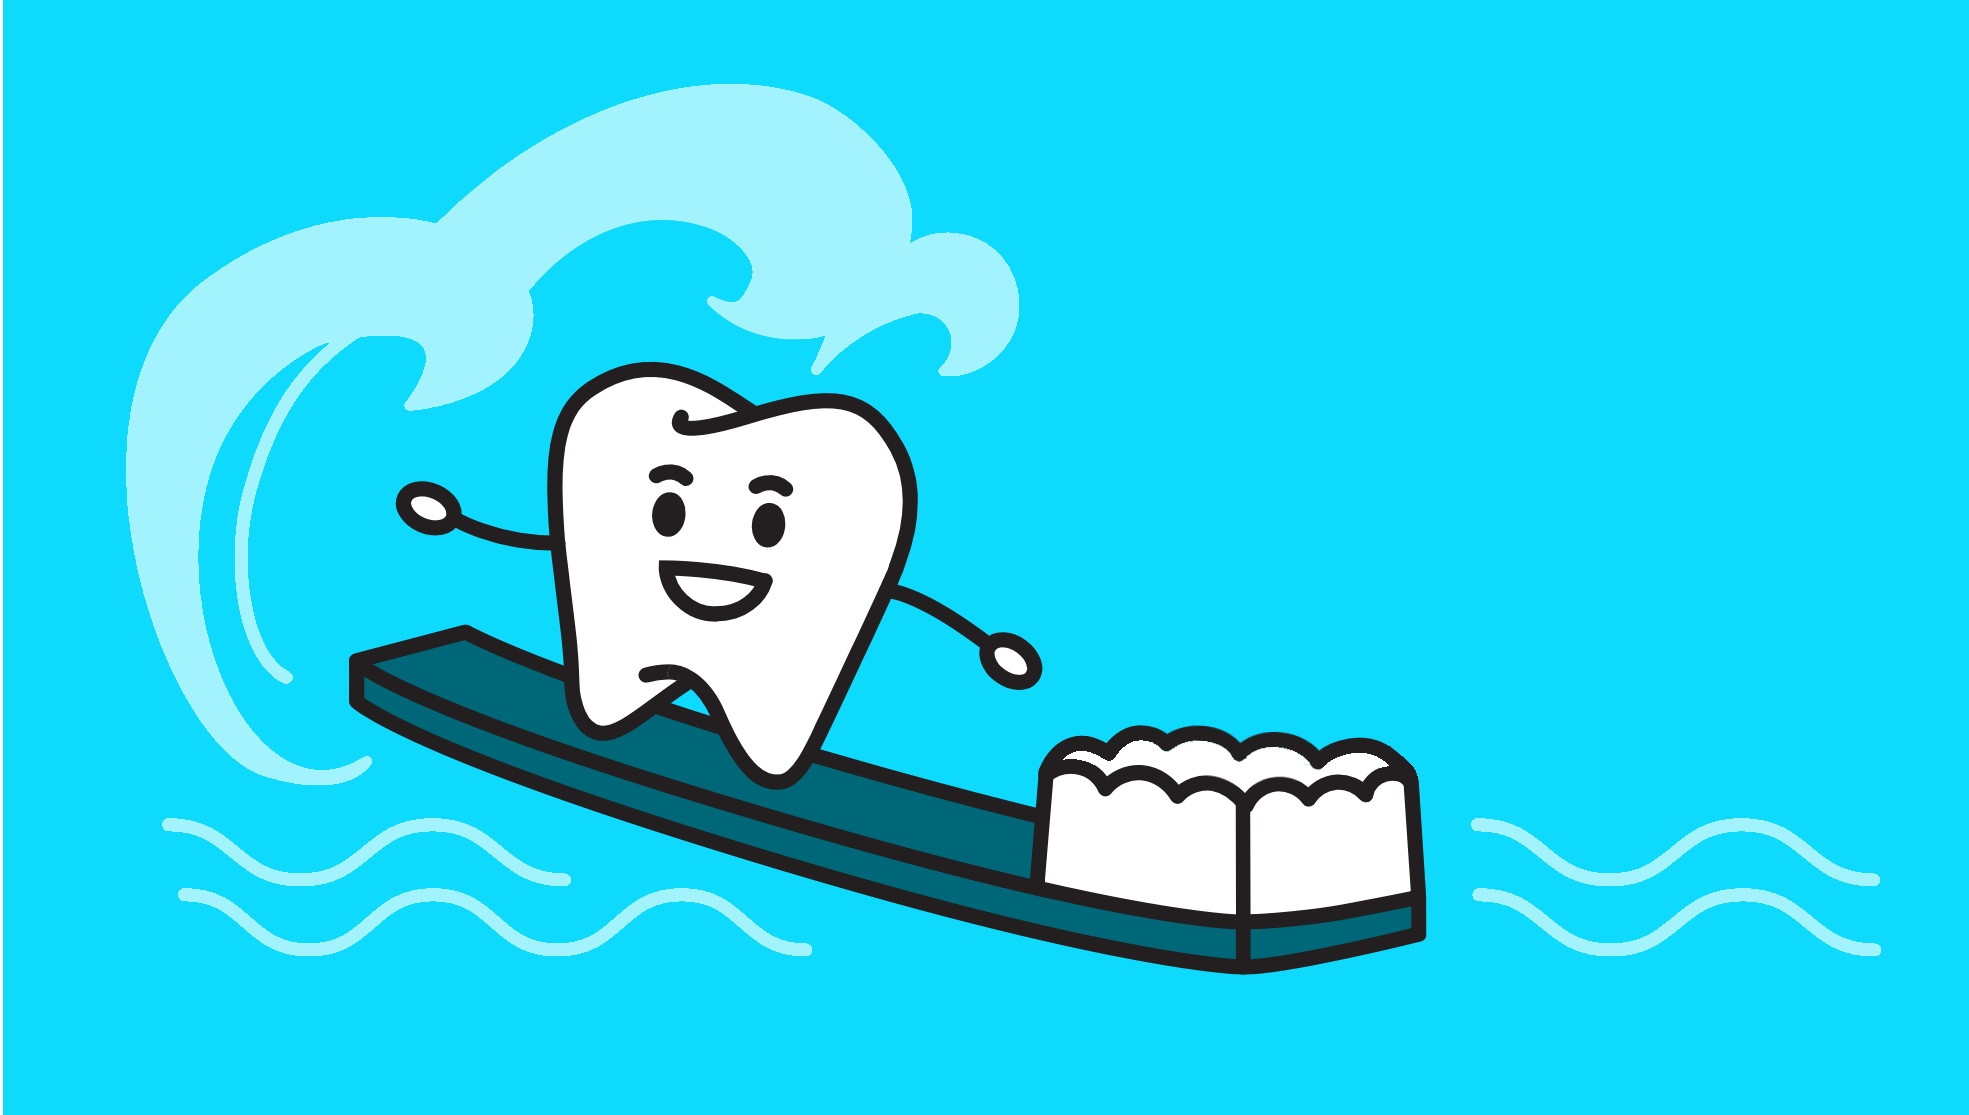
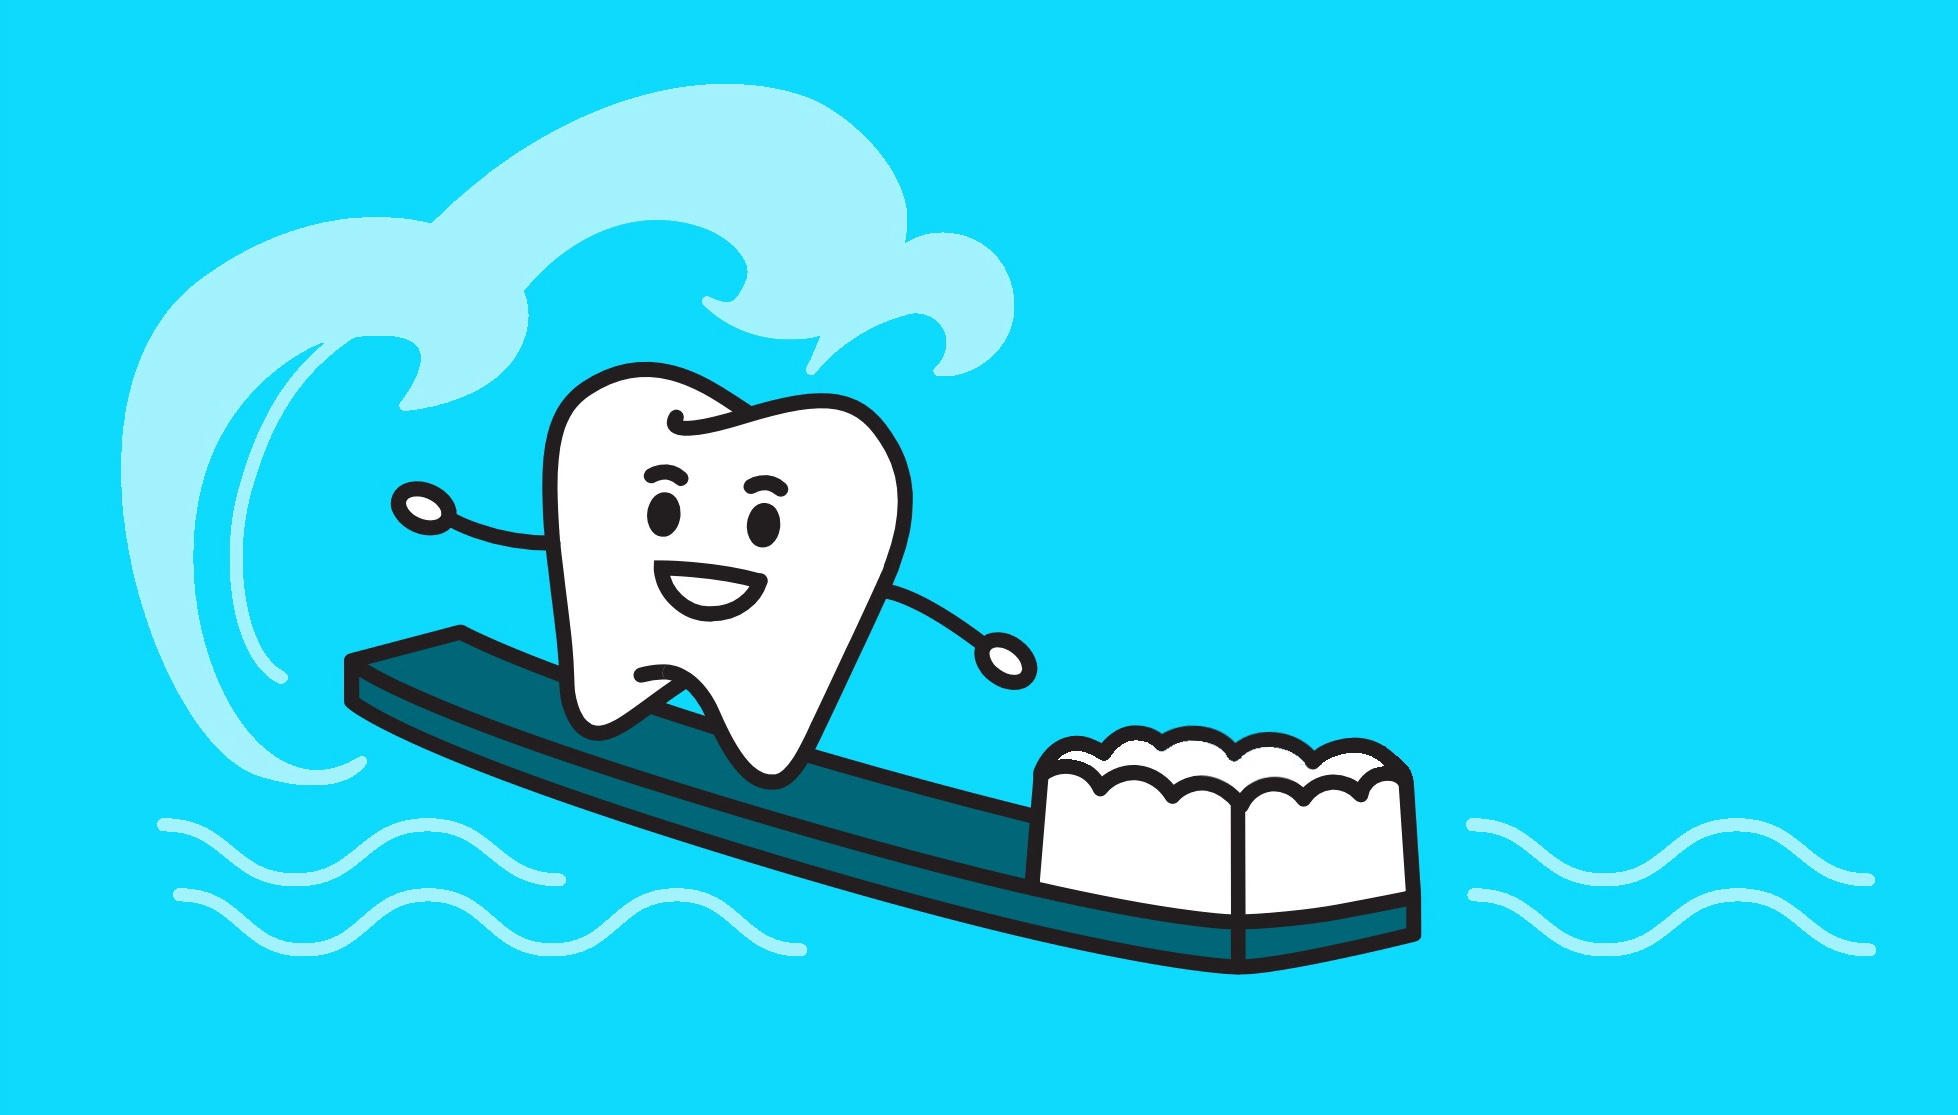
fixed errors, edited X button

diff --git a/resources/js/carousels.js b/resources/js/carousels.js
@@ -1,29 +1,29 @@
 //lightbox and illustrations list
 const illustrations = [
-    'resources/illustrations/stern.jpeg',
-    'resources/illustrations/Jinmao.jpg',
-    'resources/illustrations/dandadan.jpg',
-    'resources/illustrations/hakyona.jpg',
-    'resources/illustrations/falin.jpg',
-    'resources/illustrations/Frimmel.jpg',
-    'resources/illustrations/blossom.jpg',
-    'resources/illustrations/esper.png',
-    'resources/illustrations/weakhero.jpg',
-    'resources/illustrations/yuji_.jpg',
-    'resources/illustrations/frieren.jpeg',
-    'resources/illustrations/goth.jpeg',
-    'resources/illustrations/yellowDragon.jpg',
-    'resources/illustrations/tadakomi.jpg',
-    'resources/illustrations/theboy.jpg',
-    'resources/illustrations/strawby.jpeg',
-    'resources/illustrations/catburger.jpg',
-    'resources/illustrations/white.jpg',
-    'resources/illustrations/moonlight.jpg',
-    'resources/illustrations/rock.jpg',
-    'resources/illustrations/crimsonQueen.jpg',
-    'resources/illustrations/nottestellata.jpg',
-    'resources/illustrations/solo.jpg',
-    'resources/illustrations/Kghn.jpg'
+    '/resources/illustrations/stern.jpeg',
+    '/resources/illustrations/Jinmao.jpg',
+    '/resources/illustrations/dandadan.jpg',
+    '/resources/illustrations/hakyona.jpg',
+    '/resources/illustrations/falin.jpg',
+    '/resources/illustrations/Frimmel.jpg',
+    '/resources/illustrations/blossom.jpg',
+    '/resources/illustrations/esper.png',
+    '/resources/illustrations/weakhero.jpg',
+    '/resources/illustrations/yuji_.jpg',
+    '/resources/illustrations/frieren.jpeg',
+    '/resources/illustrations/goth.jpeg',
+    '/resources/illustrations/yellowDragon.jpg',
+    '/resources/illustrations/tadakomi.jpg',
+    '/resources/illustrations/theboy.jpg',
+    '/resources/illustrations/strawby.jpeg',
+    '/resources/illustrations/catburger.jpg',
+    '/resources/illustrations/white.jpg',
+    '/resources/illustrations/moonlight.jpg',
+    '/resources/illustrations/rock.jpg',
+    '/resources/illustrations/crimsonQueen.jpg',
+    '/resources/illustrations/nottestellata.jpg',
+    '/resources/illustrations/solo.jpg',
+    '/resources/illustrations/Kghn.jpg'
 ];
 
 illustrations.forEach(src => {

diff --git a/resources/css/home.css b/resources/css/home.css
@@ -298,17 +298,6 @@
     opacity: 1;
 }
 
-.lightbox-close {
-    position: absolute;
-    top: 20px;
-    right: 30px;
-    background: none;
-    border: none;
-    color: white;
-    font-size: 2.5rem;
-    cursor: pointer;
-    z-index: 103;
-}
 
 .lightbox-arrow {
     position: absolute;
@@ -325,12 +314,14 @@
     left: 30px; 
     z-index: 101;
     text-shadow: 2px 2px 6px rgba(0, 0, 0, 0.6);
+    transition: transform 0.2s ease, background-color 0.2s ease, box-shadow 0.2s ease, color 0.2s ease;
 
 }
 .lightbox-arrow.right { 
     right: 30px; 
     z-index: 102;
     text-shadow: 2px 2px 6px rgba(0, 0, 0, 0.6);
+    transition: transform 0.2s ease, background-color 0.2s ease, box-shadow 0.2s ease, color 0.2s ease;
 }
 
 #lightbox-img {

diff --git a/resources/css/style.css b/resources/css/style.css
@@ -292,6 +292,11 @@ button:hover,
     cursor: pointer;
     text-shadow: 1px 1px 6px rgba(0, 0, 0, 0.6);
     z-index: 103;
+    transition: transform 0.2s ease, background-color 0.2s ease, box-shadow 0.2s ease, color 0.2s ease;
+}
+.lightbox-close:hover {
+    box-shadow: none;
+    transform: translateY(-3px);
 }
 
 .lightbox-arrow {